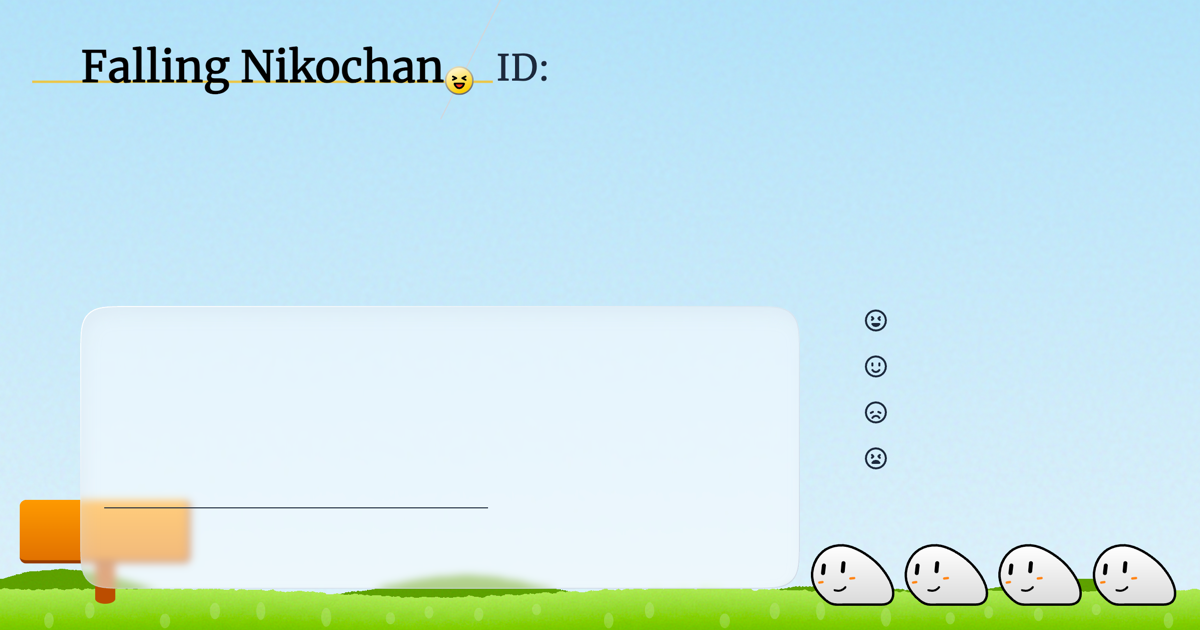
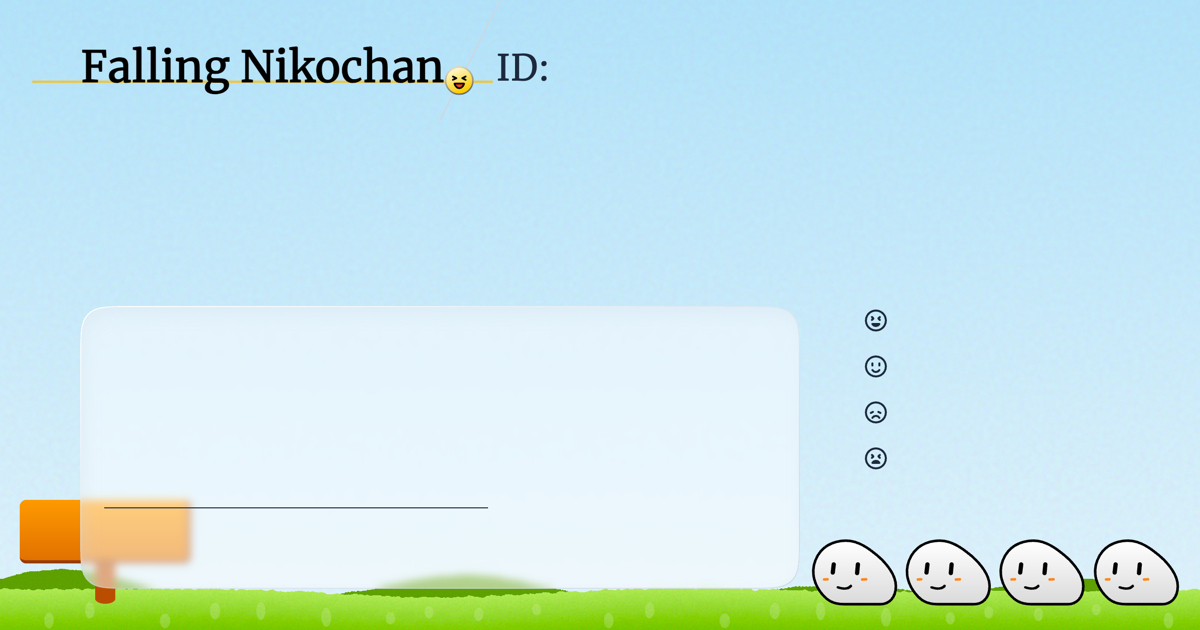
背景画像を更新

Changed region(s): [[0.6783, 0.8444, 0.9867, 0.9651]]

diff --git a/frontend/app/[locale]/ogTemplate/title/clientPage.tsx b/frontend/app/[locale]/ogTemplate/title/clientPage.tsx
@@ -8,7 +8,7 @@ import {
   IrasutoyaLikeBgInner,
   IrasutoyaLikeGrassInner,
 } from "@/common/irasutoyaLike";
-import { useEffect } from "react";
+import { useEffect, useMemo, useState } from "react";
 
 export default function OGTemplate() {
   // 1rem = 16px の環境でのみ正常に表示される
@@ -31,60 +31,93 @@ export default function OGTemplate() {
       window.removeEventListener("keydown", keydown);
     };
   }, []);
+
+  const [mode, setMode] = useState<null | string>(null);
+  useEffect(() => {
+    setMode(new URLSearchParams(window.location.search).get("mode"));
+  }, []);
+
+  const options = useMemo(
+    () =>
+      mode === "twitter"
+        ? {
+            width: 1200,
+            height: 400,
+            titleHeight: 100,
+            titleScale: "288%",
+            bpmSign: false,
+            slime: false,
+          }
+        : {
+            width: 1200,
+            height: 630,
+            titleHeight: 136,
+            titleScale: "320%",
+            bpmSign: true,
+            slime: true,
+          },
+    [mode]
+  );
+
   return (
     <div
       className="absolute isolate flex flex-col overflow-clip "
-      style={{ width: 1200, height: 630 }}
+      style={{ width: options.width, height: options.height }}
     >
       <IrasutoyaLikeBgInner
-        screenWidth={1200}
-        screenHeight={630}
+        screenWidth={options.width}
+        screenHeight={options.height}
         fixedSeed
         className="absolute"
       />
       <Title
-        className="absolute top-0 inset-x-0 h-34 scale-320 origin-top "
+        className="absolute top-0 inset-x-0 origin-top "
+        style={{ height: options.titleHeight, scale: options.titleScale }}
         anim={false}
       />
       <div className="absolute bottom-0 w-full h-6">
         <IrasutoyaLikeGrassInner
           rem={16}
-          screenWidth={1200}
-          screenHeight={630}
+          screenWidth={options.width}
+          screenHeight={options.height}
           height={2.5 * 16}
           fixedSeed
           classNameFar="absolute"
           classNameNear="absolute"
         />
-        <RhythmicalSlime
-          className="z-14 absolute scale-150 origin-bottom-right "
-          style={{
-            bottom: "100%",
-            right: "1rem",
-          }}
-          signature={[
-            {
-              step: stepZero(),
-              offset: stepZero(),
-              barNum: 0,
-              bars: [[4, 4, 4, 4]],
-            },
-          ]}
-          getCurrentTimeSec={() => undefined}
-          playing={false}
-          bpmChanges={[]}
-          playbackRate={1}
-          startsJumping={null}
-        />
-        <div className="z-13 scale-150 absolute w-full h-full bottom-0 left-0 translate-y-4 origin-bottom-left">
-          <BPMSign
-            chartPlaying={false}
-            chartSeq={null}
+        {options.slime && (
+          <RhythmicalSlime
+            className="z-14 absolute scale-150 origin-bottom-right "
+            style={{
+              bottom: "100%",
+              right: "1rem",
+            }}
+            signature={[
+              {
+                step: stepZero(),
+                offset: stepZero(),
+                barNum: 0,
+                bars: [[4, 4, 4, 4]],
+              },
+            ]}
             getCurrentTimeSec={() => undefined}
-            hasExplicitSpeedChange={false}
+            playing={false}
+            bpmChanges={[]}
             playbackRate={1}
+            startsJumping={null}
           />
-        </div>
+        )}
+        {options.bpmSign && (
+          <div className="z-13 scale-150 absolute w-full h-full bottom-0 left-0 translate-y-4 origin-bottom-left">
+            <BPMSign
+              chartPlaying={false}
+              chartSeq={null}
+              getCurrentTimeSec={() => undefined}
+              hasExplicitSpeedChange={false}
+              playbackRate={1}
+            />
+          </div>
+        )}
       </div>
     </div>
   );

diff --git a/frontend/app/[locale]/common/titleLogo.tsx b/frontend/app/[locale]/common/titleLogo.tsx
@@ -8,6 +8,7 @@ import Link from "next/link.js";
 interface Props {
   anim?: boolean;
   className?: string;
+  style?: object;
 }
 /**
  * このTitleコンポーネントはサイズを変えられない。サイズを変えたいときはscaleで変える。
@@ -44,7 +45,7 @@ export default function Title(props: Props) {
   }, [nikochanPhase]);
 
   return (
-    <div className={clsx("fn-title", props.className)}>
+    <div className={clsx("fn-title", props.className)} style={props.style}>
       <TargetLine
         barFlash={barFlash ? "100% - 1.75rem" : undefined}
         left={0}
